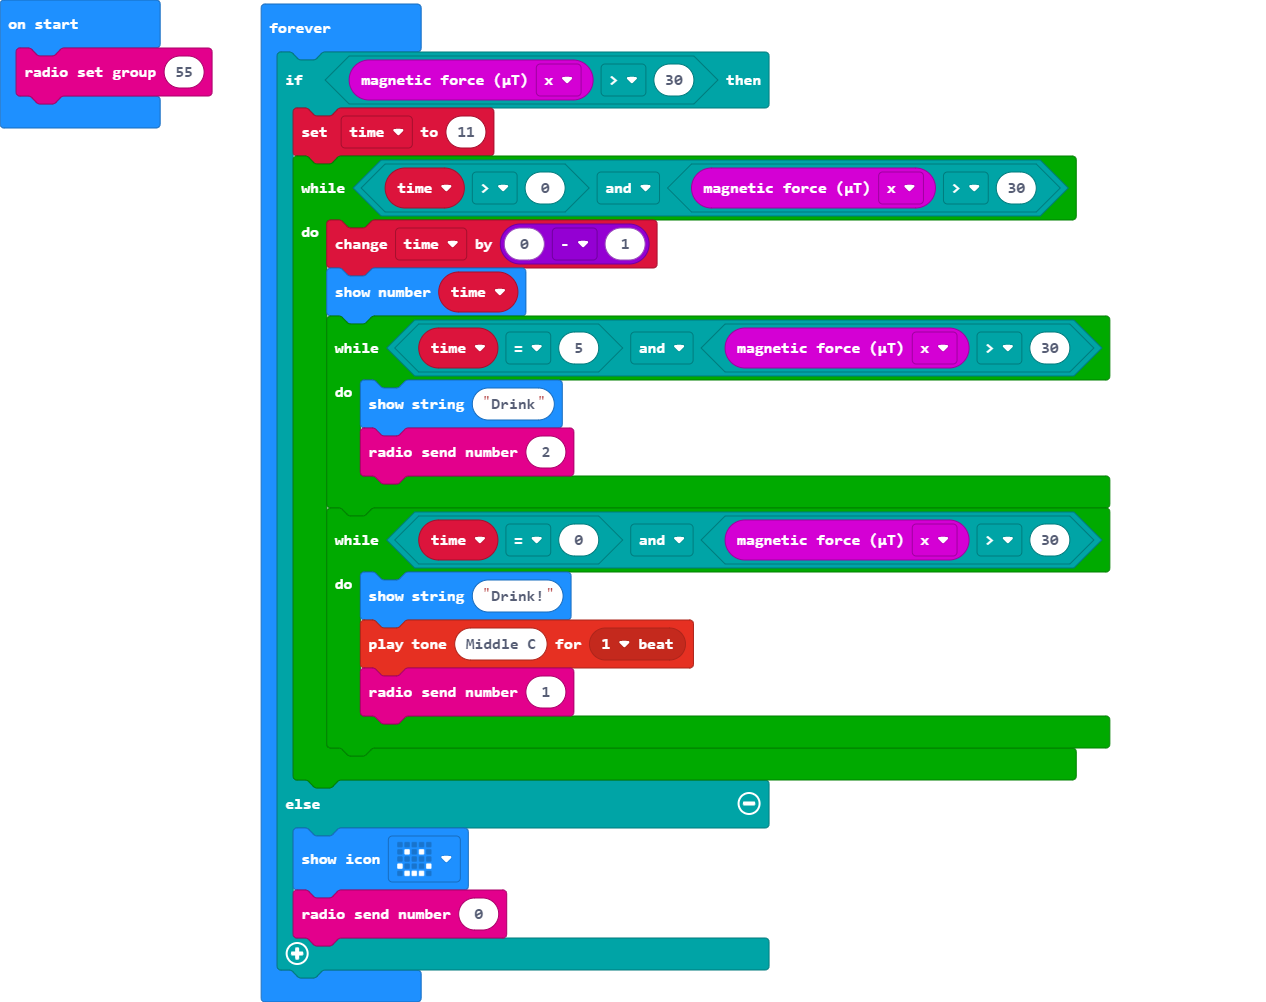
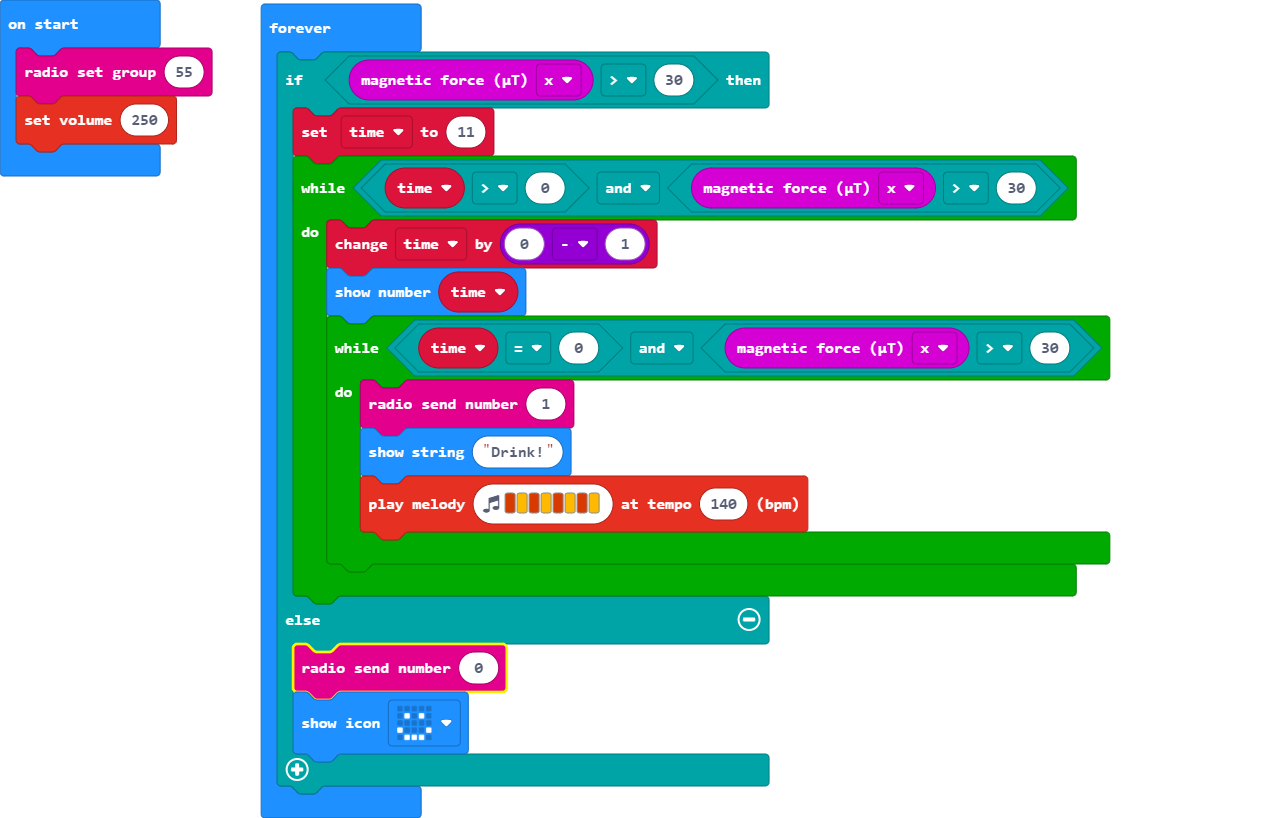
Update main.blocks, main.ts

diff --git a/main.ts b/main.ts
@@ -1,23 +1,20 @@
 let time = 0
 radio.setGroup(55)
+music.setVolume(250)
 basic.forever(function () {
     if (input.magneticForce(Dimension.X) > 30) {
         time = 11
         while (time > 0 && input.magneticForce(Dimension.X) > 30) {
             time += 0 - 1
             basic.showNumber(time)
-            while (time == 5 && input.magneticForce(Dimension.X) > 30) {
-                basic.showString("Drink")
-                radio.sendNumber(2)
-            }
             while (time == 0 && input.magneticForce(Dimension.X) > 30) {
-                basic.showString("Drink!")
-                music.playTone(262, music.beat(BeatFraction.Whole))
                 radio.sendNumber(1)
+                basic.showString("Drink!")
+                music.playMelody("B A B A B A B A ", 140)
             }
         }
     } else {
-        basic.showIcon(IconNames.Happy)
         radio.sendNumber(0)
+        basic.showIcon(IconNames.Happy)
     }
 })
